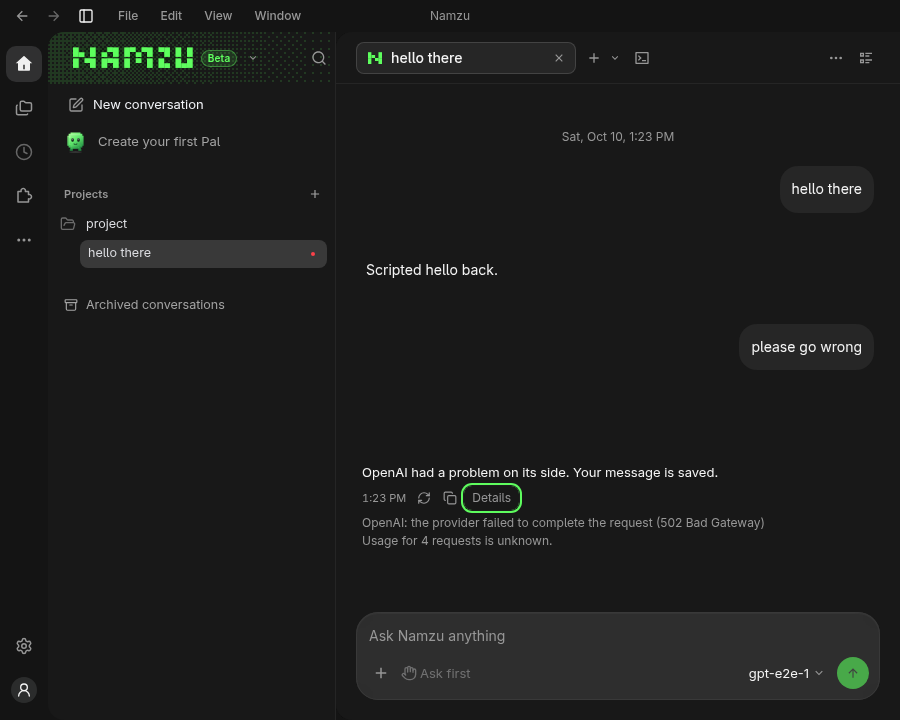
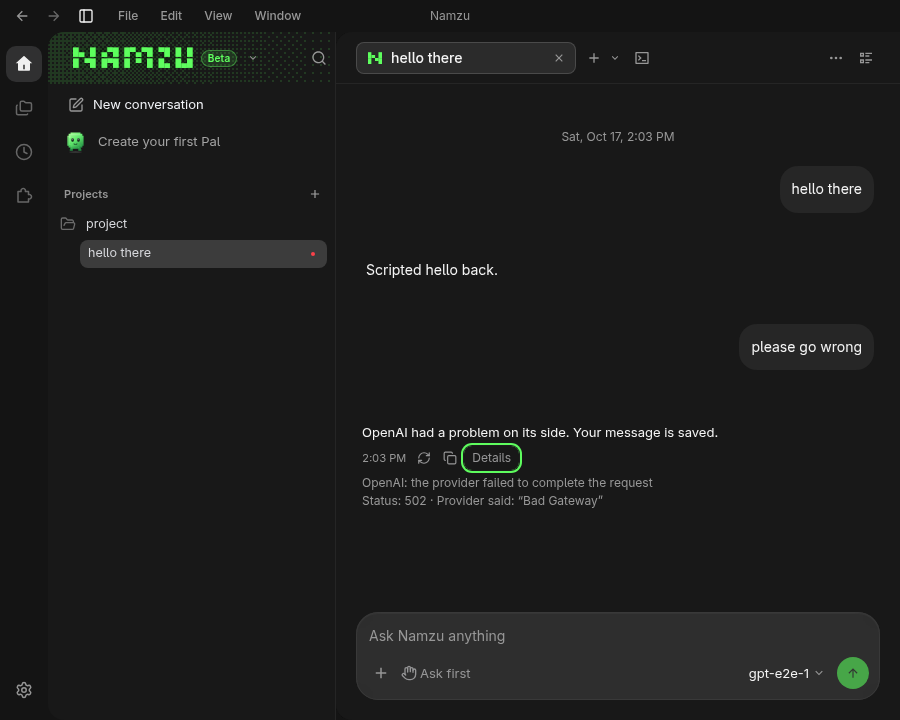
fix(desktop): put a stopped reply directly under its work, with one clock (#603)
* fix(desktop): put a stopped reply directly under its work, with one clock

A reply that ended without answer text drew a turn clock at the bottom of its
turn, a footer row kept empty until hover. When that reply had stopped, the
recovery row under the transcript carried its own time, so the reader saw an
empty line between "Work incomplete" and the sentence, and a second time on
hover. The recovery row's time was also the person's message time, not when
the work ended.

The latest turn now leaves its clock to the recovery row whenever that row is
drawn, and the row shows when the work ended (turnEndTime). Earlier turns keep
their clocks. The failed-reply e2e asserts no turn clock and measures the stop
right under the work row; both cases fail without this change.

* docs: keep the log's dates newest first after merging main

---------

diff --git a/packages/desktop/src/renderer/transcript.tsx b/packages/desktop/src/renderer/transcript.tsx
@@ -629,6 +629,8 @@ interface TurnGroupProps {
 	planTurn?: number
 	/** Opens the full task list; the same function for the life of the transcript. */
 	onOpenTasks?: () => void
+	/** The stop row under the transcript carries this turn's time, so the turn draws no clock of its own. */
+	clockShownBelow: boolean
 }
 
 function shallowEqual(a: object | undefined, b: object | undefined): boolean {
@@ -668,6 +670,7 @@ const TurnGroupView = memo(function TurnGroupView({
 	projectRoot,
 	planTurn,
 	onOpenTasks,
+	clockShownBelow,
 }: TurnGroupProps) {
 	const actionsValue = useMemo<ActivityActions>(
 		() => ({ changes, projectRoot, onOpenTurnChanges, onOpenChangedFile }),
@@ -746,7 +749,7 @@ const TurnGroupView = memo(function TurnGroupView({
 						))}
 					</Fragment>
 				))}
-				{clock?.at === 'turn' && (
+				{clock?.at === 'turn' && !clockShownBelow && (
 					<Message from="assistant" className="message assistant turn-clock">
 						<MessageFooter time={clock.time} focusable />
 					</Message>
@@ -784,6 +787,7 @@ function turnGroupPropsEqual(previous: TurnGroupProps, next: TurnGroupProps): bo
 		previous.onUndoTurn !== next.onUndoTurn ||
 		previous.planTurn !== next.planTurn ||
 		previous.onOpenTasks !== next.onOpenTasks ||
+		previous.clockShownBelow !== next.clockShownBelow ||
 		!shallowEqual(previous.separators, next.separators)
 	)
 		return false
@@ -810,6 +814,7 @@ export function Transcript({
 	undoKept,
 	projectRoot,
 	closedWhileRunning = false,
+	stopShownBelow = false,
 	dateSeparators = true,
 }: {
 	thread: ThreadState
@@ -833,6 +838,11 @@ export function Transcript({
 	projectRoot?: string
 	/** The window was closed while the latest reply ran, which is why it stopped. */
 	closedWhileRunning?: boolean
+	/**
+	 * The latest reply's stop is drawn under the transcript with its own time and actions. Its turn
+	 * then draws no clock of its own: a second time row would only open a gap above the stop.
+	 */
+	stopShownBelow?: boolean
 	dateSeparators?: boolean
 }) {
 	const ref = useRef<HTMLDivElement>(null)
@@ -952,6 +962,7 @@ export function Transcript({
 						onUndoTurn={onUndoTurn ? stable.onUndoTurn : undefined}
 						planTurn={planTurn}
 						onOpenTasks={onOpenTasks ? stable.onOpenTasks : undefined}
+						clockShownBelow={stopShownBelow && !live && group.turn === thread.turn}
 					/>
 				)
 			})}

diff --git a/packages/desktop/src/renderer/app.tsx b/packages/desktop/src/renderer/app.tsx
@@ -245,6 +245,7 @@ import { openTerminalFind, terminalApi, terminalSessions } from './terminal-regi
 import { engineTerminalRequest, shellTerminalRequest } from './terminal-request.js'
 import type { ThreadRowActions } from './thread-card.js'
 import { PaneToasts } from './toast.js'
+import { turnEndTime } from './transcript-layout.js'
 import { Transcript } from './transcript.js'
 import { TurnRecovery, recoveryKey } from './turn-recovery.js'
 import { Button } from './ui/button.js'
@@ -4886,6 +4887,10 @@ export function App({
 			thread.retry.original.model !== selectedModelId)
 			? selectedModelId
 			: undefined
+	// The stop row below the transcript draws whenever it has a failure to say or a retry to offer, and
+	// carries the time the reply stopped; the reply's own turn then draws no second clock above it.
+	const stopShownBelow = replyFailures.length > 0 || Boolean(api.retryTurn && thread.retry)
+	const stopTime = turnEndTime(thread, thread.turn) ?? thread.messages.at(-1)?.time
 	const putMessageBack = (text: string) => {
 		draftsRef.current[sessionId] = text
 		setDrafts((all) => ({ ...all, [sessionId]: text }))
@@ -6905,6 +6910,7 @@ export function App({
 														undoKept={undoKept}
 														projectRoot={project?.path}
 														closedWhileRunning={conversation?.closedWhileRunning === true}
+														stopShownBelow={stopShownBelow}
 														renderMessageAction={(message, key) => (
 															<MessageActions
 																text={message.text}
@@ -6931,7 +6937,7 @@ export function App({
 										retry={thread.retry}
 										model={retryModel}
 										failures={replyFailures}
-										time={thread.messages.at(-1)?.time}
+										time={stopTime}
 										onAction={(action) => {
 											if (action === 'settings') openSettings('models', 'models')
 											else if (action === 'continue') void act(continueWithoutReply)

diff --git a/packages/desktop/src/renderer/transcript-layout.ts b/packages/desktop/src/renderer/transcript-layout.ts
@@ -412,6 +412,18 @@ function knownTime(time: ChatMessage['time']): time is NonNullable<ChatMessage['
 	return !!time && Number.isFinite(time.at) && time.at >= 0
 }
 
+/** When a turn's work ended, as the host recorded it; undefined while it runs or when unrecorded. */
+export function turnEndTime(
+	thread: ThreadState,
+	turn: number,
+): NonNullable<ChatMessage['time']> | undefined {
+	const timing = thread.turns[turn]
+	if (knownTime(timing?.endedTime)) return timing.endedTime
+	if (timing?.endedAt !== undefined && knownTime({ at: timing.endedAt, source: 'host' }))
+		return { at: timing.endedAt, source: 'host' }
+	return undefined
+}
+
 /**
  * The one clock a reply shows, at its bottom: the last answer message's time, or, when the reply
  * ends without answer text (stopped, failed, only actions), the time its work ended. Nothing while
@@ -433,10 +445,8 @@ export function replyClock(
 		if (knownTime(message.time)) return { at: 'answer', entry, time: message.time }
 		break
 	}
-	const timing = thread.turns[group.turn]
-	if (knownTime(timing?.endedTime)) return { at: 'turn', time: timing.endedTime }
-	if (timing?.endedAt !== undefined && knownTime({ at: timing.endedAt, source: 'host' }))
-		return { at: 'turn', time: { at: timing.endedAt, source: 'host' } }
+	const ended = turnEndTime(thread, group.turn)
+	if (ended) return { at: 'turn', time: ended }
 	let last: NonNullable<ChatMessage['time']> | undefined
 	for (const entry of group.activity) {
 		const time =

diff --git a/packages/desktop/src/renderer/worked-block.test.ts b/packages/desktop/src/renderer/worked-block.test.ts
@@ -134,6 +134,26 @@ describe('the Worked block draws no clocks of its own', () => {
 		expect(html).toContain('turn-clock')
 		expect(html.lastIndexOf('class="message-time"')).toBeGreaterThan(html.indexOf('turn-clock'))
 	})
+	it('leaves the clock to the stop row when the reply stopped and that row is drawn below', () => {
+		const stopped = finish(worked())
+		const html = renderToStaticMarkup(
+			createElement(Transcript, { thread: stopped, stopShownBelow: true }),
+		)
+		// Only the person's own message keeps a clock; no empty time row opens a gap above the stop.
+		expect(clocks(html)).toBe(1)
+		expect(html).not.toContain('turn-clock')
+		expect(html).toContain('data-activity-turn')
+	})
+	it('keeps the clock of an earlier turn that ended without answer text', () => {
+		let thread = applyEvent(
+			applyEvent(finish(worked()), { kind: 'prompt', sessionId: 's', prompt: 'Again', at: 10000 }),
+			{ kind: 'state', sessionId: 's', running: true, queued: [] },
+		)
+		thread = finish(answer(thread, 'Done now.', 12000), 13000)
+		const html = renderToStaticMarkup(createElement(Transcript, { thread, stopShownBelow: true }))
+		// The first turn's clock stays; the stop row only ever speaks for the latest reply.
+		expect(html).toContain('turn-clock')
+	})
 	it('shows no clock and an open block while the work is going', () => {
 		const html = render(worked())
 		expect(clocks(html)).toBe(1)

diff --git a/docs/cli/desktop.md b/docs/cli/desktop.md
@@ -886,8 +886,8 @@ removed, key-shaped text hidden, at most 500 characters): `src/renderer/friendly
 | Context window | This conversation is too long for the model… | Start a new conversation |
 | No key | There is no API key for Anthropic. Add one in Settings, then send again. | Open model settings |
 
-The sentence is followed by the same quiet row a settled reply ends with
-(`MessageActions`, `turn-recovery.tsx`): the time first, as a settled reply shows it, then **Retry** and **Copy** as icon buttons (Retry reads "Retry
+The sentence sits directly under the reply's work and is followed by the same quiet row a settled reply ends with
+(`MessageActions`, `turn-recovery.tsx`): the time first (when the reply stopped; the turn above draws no second clock), then **Retry** and **Copy** as icon buttons (Retry reads "Retry
 with *model*" when the model selected now is not the one that stopped), then any other way on as small muted text (**Open
 model settings**, **Continue without this reply**, **Copy to a new conversation**, **Start a new
 conversation**), then **Details** as a text toggle with no leading symbol (`aria-expanded`). Details start closed for every failure
@@ -2594,7 +2594,9 @@ nothing inside it draws a clock: not the narration, thoughts, action rows, run
 summaries or the heading. Each row keeps its full time in its tooltip and accessible
 description ("Received at ...", or "Sent at ..." on the person's own message). A reply shows one clock, under its answer in the
 footer row, or, when it ends without answer text (stopped, failed, only actions), at
-the bottom of the turn; none while it is still being written. The answer appears below that group only when it is
+the bottom of the turn; none while it is still being written. When the latest reply stopped
+and the row under the transcript says so, that row carries the clock (the time the work
+ended) and the turn draws none of its own, so the stop sits directly under the work. The answer appears below that group only when it is
 a trailing answer; grouping never moves text across a later tool or reasoning event.
 Message and text-part identities preserve distinct responses. Providers without
 phase metadata retain their admitted order without invented commentary labels.

diff --git a/docs/log.md b/docs/log.md
@@ -28,6 +28,7 @@
 
 ## 2026-10-17
 
+- **Update** [Desktop](cli/desktop.md#what-a-failed-reply-says): a reply that stopped puts its sentence directly under its work. The row under the transcript carries the reply's clock: the time the work ended, where it used to show the person's message time. Before, the turn also drew its own clock row, hidden until hover, which left an empty line and a second time between the work and the stop. Covered by `e2e/ux-failed-reply-row.test.mjs` (`.changeset/desktop-failed-turn-clock.md`, patch).
 - **Update** [Desktop voice input](cli/desktop-listening.md): the listening download continues a dropped or refused file from the bytes it already has (`Range`), waits 1/2/4/8 s between attempts, and gives up after five attempts in a row that receive nothing; a host that ignores the range starts the file over. `.changeset/desktop-local-listening-engine.md`, **patch** for `@namzu/desktop`.
 - **Update** [Desktop voice input](cli/desktop-listening.md): a spoken message keeps a conversation on Auto, as a typed send does; before, it selected the saved model, which counted as a hand pick and turned Auto off. Unreleased, so no changeset of its own: `.changeset/desktop-voice-input.md` and `.changeset/auto-model-choice.md` cover it.
 

diff --git a/.changeset/desktop-failed-turn-clock.md b/.changeset/desktop-failed-turn-clock.md
@@ -1,0 +1,5 @@
+---
+'@namzu/desktop': patch
+---
+
+A reply that stopped now shows its sentence directly under its work, with one time: when the work ended. Before, an empty hover-only time row sat between the work and the sentence, and the sentence's row showed the time of the person's message instead.
